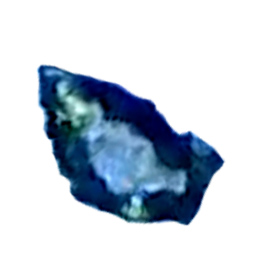
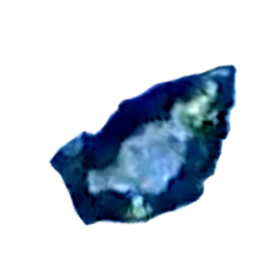
Mirror click cursor horizontally

Changed region(s): [[0.1168, 0.231, 0.8759, 0.8375]]

diff --git a/styles.css b/styles.css
@@ -52,9 +52,9 @@ h1{color:#292216;-webkit-text-fill-color:#292216;-webkit-text-stroke:1.5px #e1dc
 #attract.leaving{opacity:0;pointer-events:none;transition:opacity .9s ease;animation:none}
 #home.home-transition-in{opacity:0;pointer-events:none;transition:opacity .9s ease;animation:none}
 #home.home-transition-in.home-transition-visible{opacity:1;pointer-events:auto}
-:root{cursor:url('assets/ui/cursor-click-small.png') 8 14,auto}
+:root{cursor:url('assets/ui/cursor-click-small.png') 56 14,auto}
 button{cursor:url('assets/ui/puntita-cursor.png') 30 9,pointer}
-button:active{cursor:url('assets/ui/cursor-click-small.png') 8 14,pointer}
+button:active{cursor:url('assets/ui/cursor-click-small.png') 56 14,pointer}
 .choice-art .ui-icon{display:block;width:78%;height:82%;object-fit:contain}
 .art-lens{display:flex;align-items:center;justify-content:center;gap:0}
 .art-lens .ui-icon{width:51%;height:78%;object-fit:contain}

diff --git a/index.html b/index.html
@@ -5,7 +5,7 @@
   <meta name="viewport" content="width=device-width,initial-scale=1,viewport-fit=cover">
   <meta name="theme-color" content="#aaa18a">
   <title>Compostaje fílmico y formas de encuentro</title>
-  <link rel="stylesheet" href="styles.css?v=11">
+  <link rel="stylesheet" href="styles.css?v=12">
 </head>
 <body>
   <main id="app" class="app">
